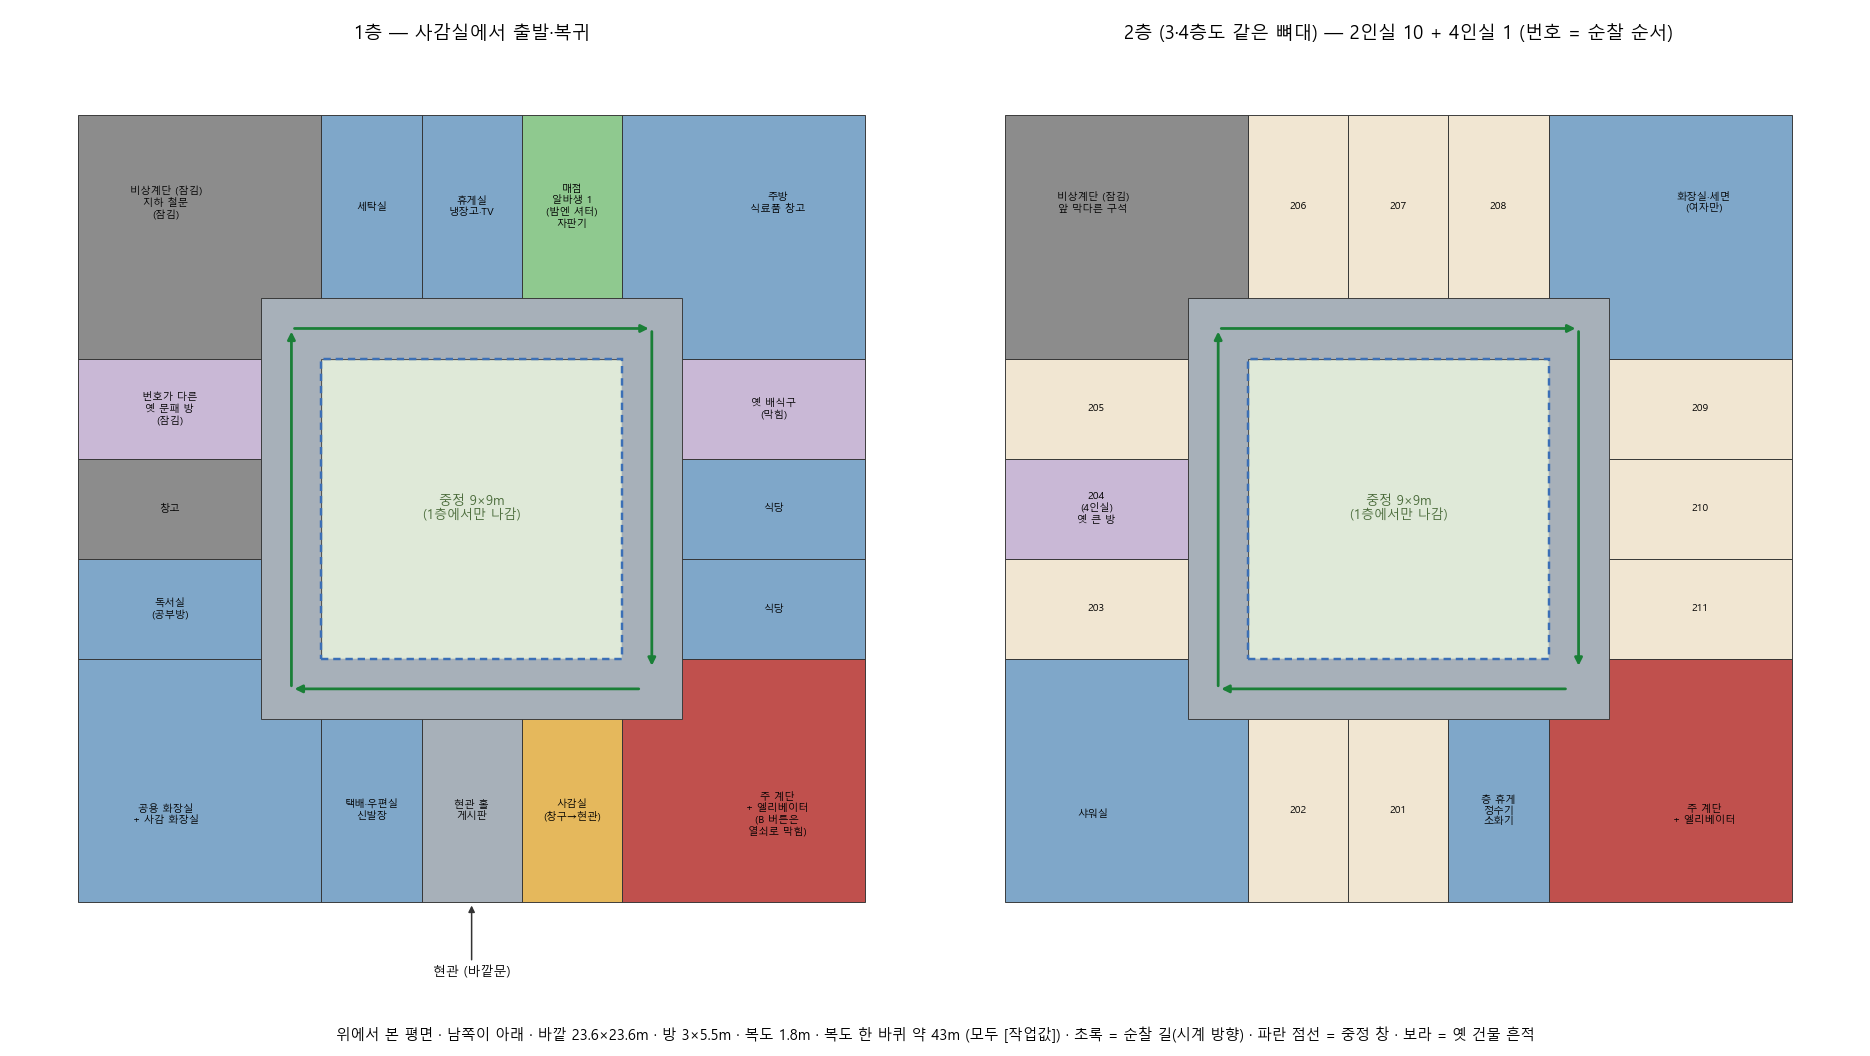
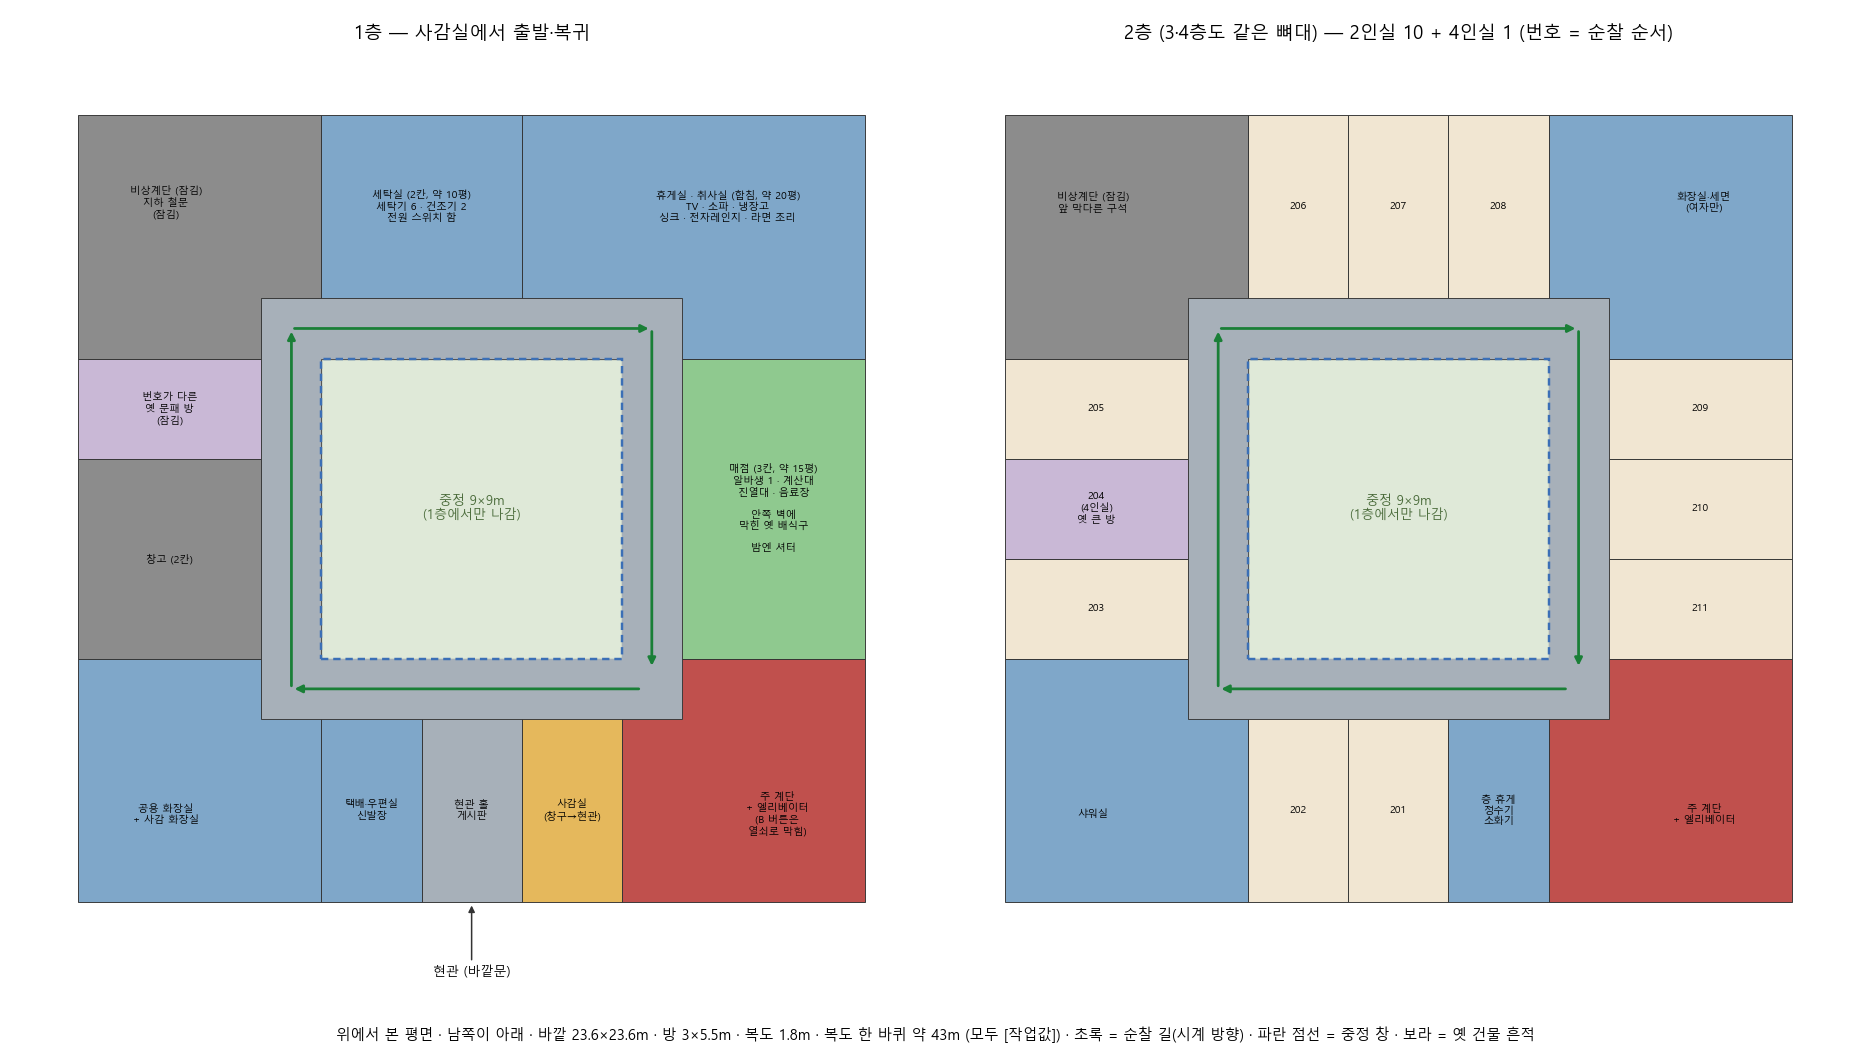
기획: 1층 3차(매점 3칸·세탁실 2칸·휴게실+취사실·창고 합침), 평면 칸 합치기

diff --git a/tools/dev/building_plan.py b/tools/dev/building_plan.py
@@ -49,14 +49,32 @@ def draw_floor(ax, title, mid, corner, extra=None):
 	for x, y, w, h in ring:
 		ax.add_patch(Rectangle((x, y), w, h, fc=C["cor"], ec="none"))
 	ax.add_patch(Rectangle((A, A), Y, Y, fc="none", ec="#3b6fb6", lw=1.6, ls=(0, (3, 2))))
+	# 칸: (이름, 종류) 또는 (이름, 종류, 칸 수) — 여러 칸을 합침. None = 앞 칸에 합쳐짐
 	for side, cells in MID.items():
-		for (x, y, w, h), (label, kind) in zip(cells, mid[side]):
+		entries = mid[side]
+		i = 0
+		while i < len(cells):
+			e = entries[i]
+			if e is None:
+				i += 1
+				continue
+			label, kind, span = (tuple(e) + (1,))[:3]
+			x, y, w, h = cells[i]
+			if side in ("S", "N"):
+				w = CELL * span
+			else:
+				h = CELL * span
 			ax.add_patch(Rectangle((x, y), w, h, fc=C[kind], ec="#333", lw=0.6))
 			ax.text(x + w / 2, y + h / 2, label, ha="center", va="center", fontsize=6.8)
+			i += span
+	# 모서리: (이름, 종류[, 다른 모양 점들, 글자 자리])
 	for k, pts in CORNER.items():
-		label, kind = corner[k]
-		ax.add_patch(Polygon(pts, closed=True, fc=C[kind], ec="#333", lw=0.6))
-		ax.text(*CORNER_C[k], label, ha="center", va="center", fontsize=6.8)
+		e = corner[k]
+		label, kind = e[0], e[1]
+		poly = e[2] if len(e) > 2 else pts
+		pos = e[3] if len(e) > 3 else CORNER_C[k]
+		ax.add_patch(Polygon(poly, closed=True, fc=C[kind], ec="#333", lw=0.6))
+		ax.text(*pos, label, ha="center", va="center", fontsize=6.8)
 	# 순찰 길: 시계 방향 (남동 계단 → 서 → 북 → 동 → 계단)
 	m0, m1 = R + CW / 2, OUT - R - CW / 2
 	path = [(m1 - 0.3, m0), (m0, m0), (m0, m1), (m1, m1), (m1, m0 + 0.6)]
@@ -76,14 +94,17 @@ def f1_extra(ax):
 		arrowprops=dict(arrowstyle="-|>", color="#333"))
 
 
+# 1층 (§14, 사용자 11-28 3차): 식당 없음 · 매점 3칸 · 세탁실 2칸 · 휴게실+취사실 합침 · 독서실+창고 → 창고
 F1_MID = {
 	"S": [("택배·우편실\n신발장", "fac"), ("현관 홀\n게시판", "cor"), ("사감실\n(창구→현관)", "staff")],
-	"E": [("식당", "fac"), ("식당", "fac"), ("옛 배식구\n(막힘)", "old")],
-	"N": [("세탁실", "fac"), ("휴게실\n냉장고·TV", "fac"), ("매점\n알바생 1\n(밤엔 셔터)\n자판기", "shop")],
-	"W": [("독서실\n(공부방)", "fac"), ("창고", "lock"), ("번호가 다른\n옛 문패 방\n(잠김)", "old")],
+	"E": [("매점 (3칸, 약 15평)\n알바생 1 · 계산대\n진열대 · 음료장\n\n안쪽 벽에\n막힌 옛 배식구\n\n밤엔 셔터", "shop", 3)],
+	"N": [("세탁실 (2칸, 약 10평)\n세탁기 6 · 건조기 2\n전원 스위치 함", "fac", 2), None, None],
+	"W": [("창고 (2칸)", "lock", 2), None, ("번호가 다른\n옛 문패 방\n(잠김)", "old")],
 }
+NE_LOUNGE = [(OUT - R, B), (OUT, B), (OUT, OUT), (B - CELL, OUT), (B - CELL, OUT - R), (OUT - R, OUT - R)]
 F1_CORNER = {"SE": ("주 계단\n+ 엘리베이터\n(B 버튼은\n열쇠로 막힘)", "stair"), "SW": ("공용 화장실\n+ 사감 화장실", "fac"),
-	"NE": ("주방\n식료품 창고", "fac"), "NW": ("비상계단 (잠김)\n지하 철문\n(잠김)", "lock")}
+	"NE": ("휴게실 · 취사실 (합침, 약 20평)\nTV · 소파 · 냉장고\n싱크 · 전자레인지 · 라면 조리", "fac", NE_LOUNGE, (OUT - R * 0.75, OUT - R * 0.5)),
+	"NW": ("비상계단 (잠김)\n지하 철문\n(잠김)", "lock")}
 
 F2_MID = {  # 번호 = 순찰 순서(계단에서 시계 방향)
 	"S": [("202", "room"), ("201", "room"), ("층 휴게\n정수기\n소화기", "fac")],
@@ -94,24 +115,7 @@ F2_MID = {  # 번호 = 순찰 순서(계단에서 시계 방향)
 F2_CORNER = {"SE": ("주 계단\n+ 엘리베이터", "stair"), "SW": ("샤워실", "fac"),
 	"NE": ("화장실·세면\n(여자만)", "fac"), "NW": ("비상계단 (잠김)\n앞 막다른 구석", "lock")}
 
-# 1층 변경안 [후보] (§12): 식당 없앰 → 매점 2칸 + 공용 취사실 + 옛 식당(막힘)
-F1_MID_V2 = {
-	"S": F1_MID["S"],
-	"E": [("매점\n알바생 1\n(밤엔 셔터)", "shop"), ("매점\n진열대·음료장\n입구 앞 자판기", "shop"), ("옛 식당\n(막힘)\n배식구", "old")],
-	"N": [("세탁실", "fac"), ("휴게실\n냉장고", "fac"), ("휴게실\nTV·소파", "fac")],
-	"W": F1_MID["W"],
-}
-F1_CORNER_V2 = dict(F1_CORNER, NE=("공용 취사실\n(라면·간단 조리)\n전자레인지", "fac"))
-
-if __name__ == "__main__" and "--v2" in sys.argv:
-	fig, axs = plt.subplots(1, 2, figsize=(17, 9.6))
-	draw_floor(axs[0], "1층 지금 (§11)", F1_MID, F1_CORNER, f1_extra)
-	draw_floor(axs[1], "1층 변경안 [후보] — 식당 없음 · 매점 2칸 · 공용 취사실", F1_MID_V2, F1_CORNER_V2, f1_extra)
-	fig.text(0.5, 0.015, "매점 3×5.5m(약 5평) → 6×5.5m(약 10평) · 식사는 캠퍼스 식당·매점·취사실 · 원래 건물의 식당은 막힌 채 남음(옛 흔적)",
-		ha="center", fontsize=10)
-	fig.tight_layout(rect=(0, 0.035, 1, 0.97))
-	fig.savefig(sys.argv[1], dpi=110)
-elif __name__ == "__main__":
+if __name__ == "__main__":
 	fig, axs = plt.subplots(1, 2, figsize=(17, 9.6))
 	draw_floor(axs[0], "1층 — 사감실에서 출발·복귀", F1_MID, F1_CORNER, f1_extra)
 	draw_floor(axs[1], "2층 (3·4층도 같은 뼈대) — 2인실 10 + 4인실 1 (번호 = 순찰 순서)", F2_MID, F2_CORNER)

diff --git a/docs/STATUS.md b/docs/STATUS.md
@@ -22,7 +22,7 @@ _마지막 갱신: 2026-11-28 · **새 채팅은 PC Claude Code에서 시작 —
 7. 사용자 결정 대기: 건물 이름 · 메인 기숙생 고르기 · 게임 길이 · 가제 · 밤 방식(어두운 빛 / 거친 저해상도) · 정확한 등신(작업값 5.5)
 
 ## 최근 완료
-- 2026-11-28: **1층 변경안 · 습성 시설 빼기** — 매점 2칸(10평)·식당 대신 공용 취사실·옛 식당 흔적 [후보, 사용자 확인 대기] · 종족 습성 배려 시설(수조 방·암실·둥지 방) 빼기 [확정] → 그 자리 독서실 · setting-bible 같이 고침 (building-layout §12·§13)
+- 2026-11-28: **1층 3차 · 습성 시설 빼기** — 종족 습성 배려 시설 빼기 [확정] · 1층: 식당 없음, 매점 3칸(15평, 옛 배식구 남음) · 세탁실 2칸(10평) · 휴게실+취사실 합침(20평) · 독서실+창고 → 창고 (building-layout §13·§14) · 확인 필요: 사감실 5평은 빠듯
 - 2026-11-28: **건물 결정 2차** — 매점 알바생 1명·물건 구매 [확정] · 엘리베이터(주 계단 옆, B 버튼 열쇠로 막힘) [확정] · 지하 = 잠긴 의문의 공간 [확정 방향] · 시대감 80~90년대 [작업값] · 크기 추천안 방 3×5.5m·복도 1.8m → 바깥 23.6m·중정 9m·한 바퀴 43m · 평면 다시 그림 (building-layout §11)
 - 2026-11-28: **건물 모양 확정 · 1·2층 평면 초안** — ㅁ자 중정 + 원래 기숙사가 아닌 건물 [확정] · 27×27m, 편복도 고리(복도에서 늘 중정 창), 주 계단 1 + 비상계단(잠김), 1층 사감실 = 현관 창구 옆 · 1층 매점(사용자 추가) · 2~4층 2인실 10 + 옛 4인실 1, 방 번호 = 시계 방향 순찰 순서 · 수칙 6 '복도 끝 창문' = 4층 막다른 구석 (building-layout §10)
 - 2026-11-28: **실제 기숙사 건물 조사** — 유형(중복도·편복도·회로형·계단실·중정) · 사례(교토 요시다료·이화 빌링슬리관·미국 여자 기숙사 하우스마더·Gentry Hall '남자는 위층 금지') · 치수 · 조사 결과 ㅁ자 기숙사는 드묾 → C면 '원래 기숙사가 아닌 건물'(조각만) [후보] (building-layout §9)
